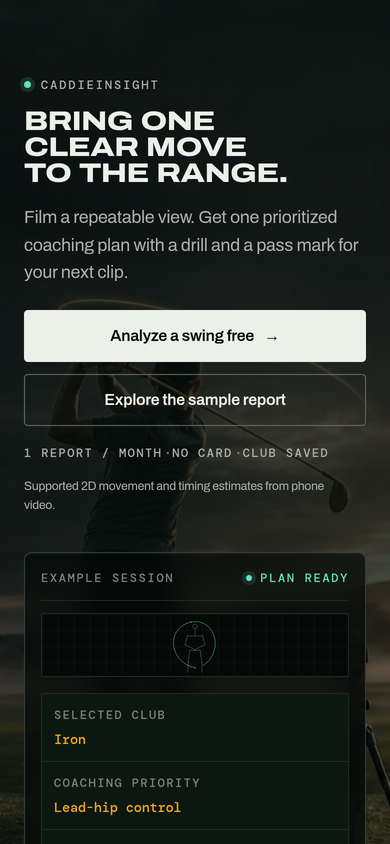
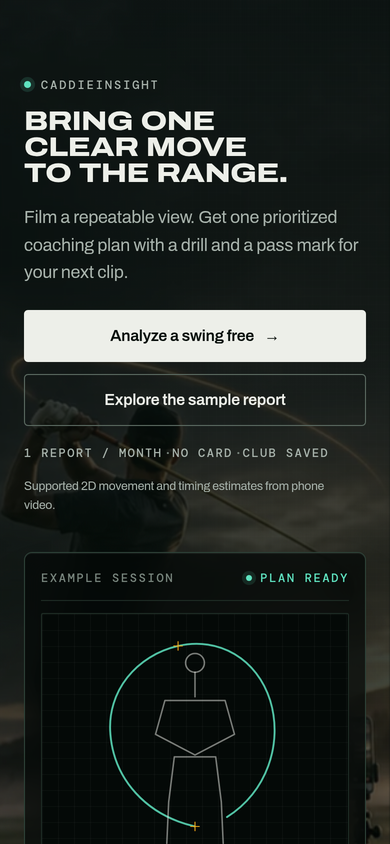
Stop the live read rendering as a thumbnail on a phone
The generative swing trace is the subject of this section — it is the only
thing on the page that shows what the product actually does, and 048951f
built it precisely so the hero would read a swing without a video. On a phone
it was 308x64.

That is not a small box, it is a hidden graphic. The still is drawn
preserveAspectRatio="meet" from a 320x260 viewBox, so a 64px strip scales the
artwork to 25% and strands a ~79px figure in a field of empty grid.
swing-trace.js measures the same box, so the animation was drawn just as
small. Both the no-JS still and the live canvas were affected.

The 64px was sized to protect the fold and was buying nothing. On a phone the
readout starts ~552px down, which is below the fold at any height the trace
takes; the primary CTA — the thing the fold has to protect — sits at 310px
and does not move. The section grows 1019px to 1202px and the figure is drawn
at 94% instead of 25%.

The ratio is what gets declared, not the height. A fixed px height alongside
a live aspect-ratio is the bug that shipped BEFORE the 64px strip: the base
5/4 kept fixing the width, so 64px tall rendered 80px wide. Declaring one and
deriving the other is what makes both shapes unrepresentable, so the mobile
gate now pins that rather than either literal spelling — it asserts a
full-width box whose height comes from a sane ratio, and rejects a px height
outright.

Re-measured after the change, because the scrim stops are percentages and the
[…]

diff --git a/tests/test_storefront_mobile_regressions.py b/tests/test_storefront_mobile_regressions.py
@@ -192,16 +192,30 @@ def test_mobile_hero_is_fluid_through_modern_iphone_widths():
     # parent is how the trace disappeared the first time).
     assert ".sl-hero__trace { display: none; }" not in mobile_css
     assert ".sl-hero__readout { display: none; }" not in mobile_css
-    # Pinned as behaviour, not as a one-line spelling. The literal string
-    # this replaced was satisfied by a rule that ALSO left aspect-ratio: 5/4
-    # live from the base declaration, so the 64px height fixed the width to
-    # 80px and the readout rendered as a thumbnail in the corner of its own
-    # panel. The pin passed; the layout was broken. aspect-ratio must be
-    # released for the height to mean anything.
+    # The live read is what this section is FOR, so the phone must not render
+    # it as a thumbnail. Two different shapes of this bug have now shipped:
+    #
+    #   1. `height: 64px` with the base `aspect-ratio: 5/4` still live, which
+    #      fixed the WIDTH to 80px — a thumbnail in the corner of its own panel.
+    #   2. `height: 64px` with `aspect-ratio: auto`, which fixed #1 and left a
+    #      308x64 strip. The still is drawn preserveAspectRatio="meet" from a
+    #      320x260 viewBox, so that scales the artwork to 25% and stands a
+    #      ~79px figure in a field of empty grid. The canvas reads the same
+    #      box, so the animation was drawn just as small.
+    #
+    # Both passed a literal-string pin. What actually has to hold is that the
+    # box is full-width and its height DERIVES from a sane ratio, so neither a
+    # fixed thumbnail height nor a ratio fighting a height can come back.
     trace_rules = declarations(mobile_css, ".sl-hero__trace")
     assert trace_rules
-    assert any("height: 64px" in rule for rule in trace_rules)
-    assert any("aspect-ratio: auto" in rule for rule in trace_rules)
+    trace_css = " ".join(trace_rules)
+    assert "width: 100%" in trace_css
+    ratio = re.search(r"aspect-ratio:\s*(\d+)\s*/\s*(\d+)", trace_css)
+    assert ratio, "the phone trace needs a real ratio, not a thumbnail height"
+    assert 1.0 <= int(ratio.group(1)) / int(ratio.group(2)) <= 2.0
+    assert not re.search(r"height:\s*\d+px", trace_css), (
+        "a fixed px height alongside a live aspect-ratio is bug #1 above"
+    )
 
 
 def test_mobile_method_section_stays_a_compact_left_flowing_spec_sheet():

diff --git a/docs/quality/2026-08-11-phone-hero-specimens/README.md b/docs/quality/2026-08-11-phone-hero-specimens/README.md
@@ -20,9 +20,20 @@ What changed, and why each part was necessary:
 
 | | before | after |
 | --- | --- | --- |
-| golfer, rendered height | 330 px in a 1019 px hero | 546 px |
+| **live trace box** | 308 × 64 px, artwork drawn at **25%** | 308 × 246 px, drawn at **94%** |
+| golfer in the photograph | 330 px tall in a 1019 px hero | 546 px |
 | phone asset | 1122 × 1402, 104 KB | 1122 × 932, 51 KB |
-| worst-case type contrast | 2.4:1 (fine print, had the scrim been lifted alone) | 4.87:1 against a 4.5 target |
+| worst-case type contrast | 2.4:1 (fine print, had the scrim been lifted alone) | 4.89:1 against a 4.5 target |
+
+The **live trace** is the headline fix here. It is the thing the section is
+for — the generative read built in `048951f` — and on a phone it was a
+thumbnail. The still is drawn `preserveAspectRatio="meet"` from a 320 × 260
+viewBox, so a 308 × 64 strip scaled the artwork to 25% and stranded a ~79 px
+figure in a field of empty grid; `swing-trace.js` measures the same box, so
+the animation was drawn just as small. The 64 px was there to protect the
+fold and was buying nothing: the readout starts ~552 px down the phone hero,
+below the fold at any height, while the primary CTA that the fold actually
+has to protect sits at 310 px and does not move.
 
 The asset had to be re-cropped; CSS alone could not do it. Two thirds of the
 v1 portrait frame is empty sky, and on a phone `object-fit: cover` is narrower
